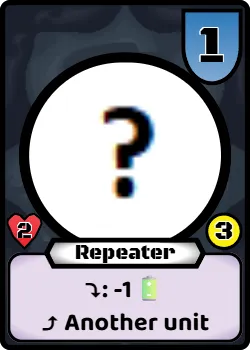
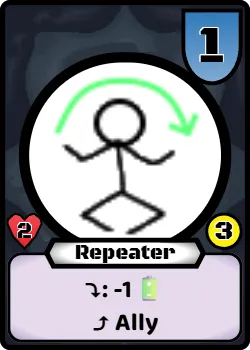
feat: Add web client with Pyodide game engine integration and online multiplayer functionality.

diff --git a/web/multiplayer.js b/web/multiplayer.js
@@ -18,15 +18,21 @@ class MultiplayerManager {
     }
 
     /**
-     * Generate a short alphanumeric room code
+     * Pool of memorable 3-letter room codes
      */
-    _generateCode(length = 5) {
-        const chars = 'ABCDEFGHJKLMNPQRSTUVWXYZ23456789'; // No I/O/0/1 to avoid confusion
-        let code = '';
-        for (let i = 0; i < length; i++) {
-            code += chars.charAt(Math.floor(Math.random() * chars.length));
-        }
-        return code;
+    static ROOM_CODES = [
+        'ACE', 'CAT', 'DOG', 'FOX', 'KEY',
+        'MAP', 'SUN', 'WAR', 'WIN', 'TOP',
+        'FUN', 'RED', 'BOX', 'JET', 'CAP',
+        'RUN', 'PIG', 'BAT', 'CAR', 'HAT'
+    ];
+
+    /**
+     * Pick a random room code from the word list
+     */
+    _generateCode() {
+        const codes = MultiplayerManager.ROOM_CODES;
+        return codes[Math.floor(Math.random() * codes.length)];
     }
 
     /**
@@ -68,7 +74,7 @@ class MultiplayerManager {
     createRoom() {
         return new Promise((resolve, reject) => {
             this.isHost = true;
-            this.roomCode = 'BO-' + this._generateCode();
+            this.roomCode = this._generateCode();
 
             this._emitState('connecting', 'Creating room...');
 

diff --git a/web/index.html b/web/index.html
@@ -117,7 +117,7 @@
                 <div class="room-code-display">
                     <p class="room-code-label">YOUR ROOM CODE</p>
                     <div class="room-code-box">
-                        <span id="room-code-text">-----</span>
+                        <span id="room-code-text">---</span>
                         <button id="btn-copy-code" class="copy-btn" title="Copy to clipboard">📋</button>
                     </div>
                     <p class="room-code-hint">Share this code with your opponent</p>
@@ -129,7 +129,7 @@
                 <div class="join-form">
                     <label class="join-label">ENTER ROOM CODE</label>
                     <div class="join-input-row">
-                        <input type="text" id="join-code-input" class="join-input" placeholder="BO-XXXXX" maxlength="8"
+                        <input type="text" id="join-code-input" class="join-input" placeholder="XXX" maxlength="3"
                             spellcheck="false" autocomplete="off">
                         <button id="btn-connect" class="menu-btn primary" style="padding: 1rem 2rem;">CONNECT</button>
                     </div>
